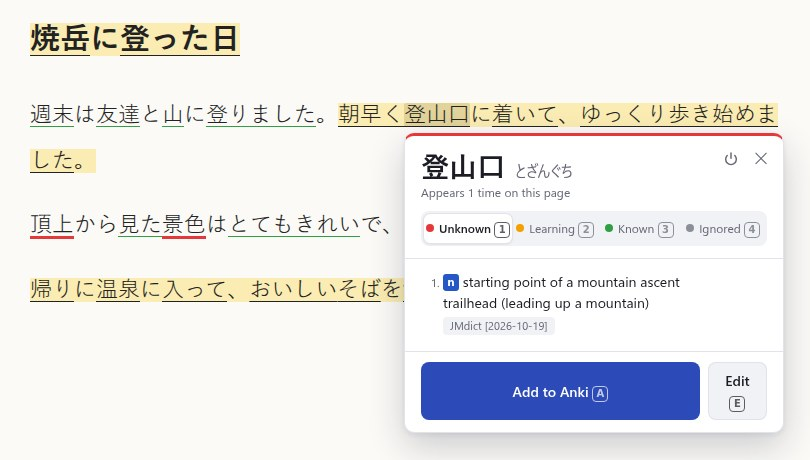
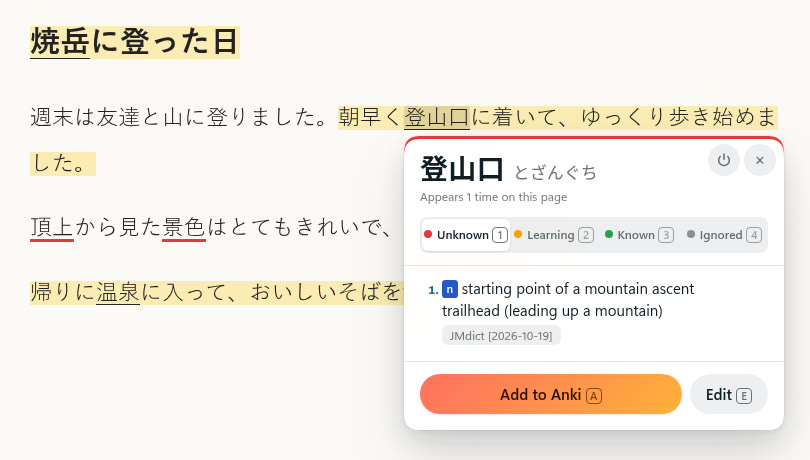
Update Minerr: the new design, Netflix subtitles, and the WhisperX add-on
The screenshot shows the current popup. The card says that Minerr is open source, that it reads Netflix subtitles too, and that one click in the extension starts the WhisperX add-on.

diff --git a/index.html b/index.html
@@ -298,9 +298,9 @@
         </div>
         <div class="entry">
           <h3><a href="https://github.com/haziqhilmismail/minerr">Minerr</a></h3>
-          <span class="when">Chrome extension for learning Japanese</span>
-          <a class="shot" href="https://github.com/haziqhilmismail/minerr"><img src="assets/minerr.jpg" width="810" height="460" loading="lazy" alt="A Japanese diary page in Minerr. Each word has an underline in the color of its status, two sentences with one unknown word have a yellow background, and a popup for 登山口 shows its reading とざんぐち, its JMdict meaning, the status buttons, and an Add to Anki button"></a>
-          <p>Underlines each Japanese word on a page or in YouTube subtitles by how well I know it. I press A on a new word, and it goes to Anki with the sentence, a screenshot, and the audio of that line. For a video with no Japanese subtitles, a WhisperX server on my PC writes them. TypeScript, Chrome extension, kuromoji, WhisperX.</p>
+          <span class="when">Open-source Chrome extension for learning Japanese</span>
+          <a class="shot" href="https://github.com/haziqhilmismail/minerr"><img src="assets/minerr.jpg" width="810" height="460" loading="lazy" alt="A Japanese diary page in Minerr. Unknown words are underlined, sentences with one unknown word have a yellow background, and a popup for 登山口 shows its reading とざんぐち, its JMdict meaning, the status buttons, and an orange Add to Anki button"></a>
+          <p>Underlines each Japanese word on a page or in YouTube and Netflix subtitles by how well I know it. I press A on a new word, and it goes to Anki with the sentence, a screenshot, and the audio of that line. For a video with no Japanese subtitles, a WhisperX add-on writes them on my PC. One click in the extension starts it. TypeScript, Chrome extension, kuromoji, WhisperX, Playwright.</p>
         </div>
         <div class="entry">
           <h3>Home Server</h3>
